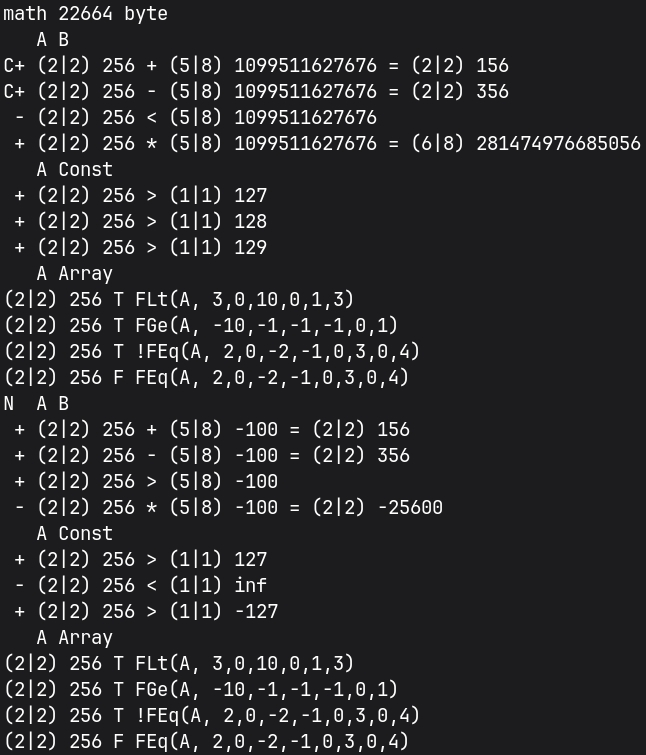
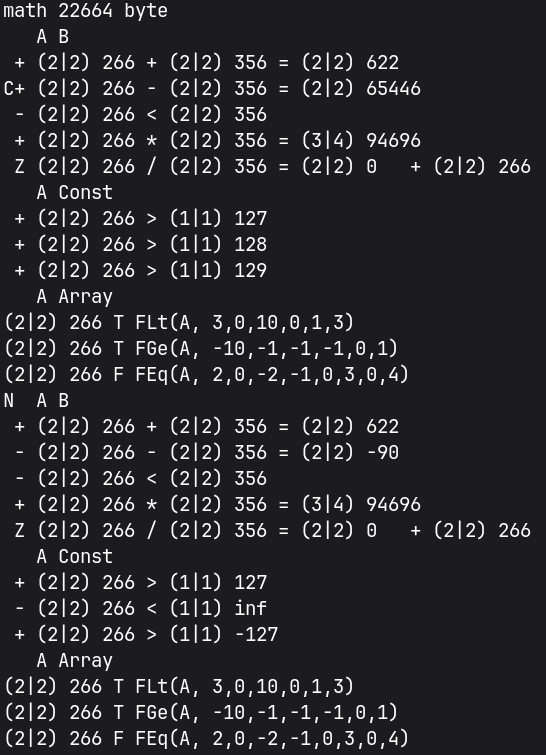
v71.0

Changed region(s): [[0.0, 0.0, 0.9963, 1.0], [0.8095, 0.6702, 0.8718, 0.7311], [0.9341, 0.7007, 0.9652, 0.7311]]

diff --git a/math.c b/math.c
@@ -16,38 +16,38 @@ void FAddr(anu y, As* r, anu c, As* a) { if ((c = (c > y) ? y:c)) { *r++ = *a;
 void FSWAP(an r, anu l, an a) { Mat.i = l; Mat.r = r; Mat.a = a; Mat.be = Mat.r + Mat.i;
   Mat.ae = Mat.a + Mat.i; Mat.j = *Mat.a++; *Mat.r++ = Mat.i ? *Mat.ae--:Mat.j; *Mat.be-- = Mat.j;
   Mat.i >>= 1; while(Mat.i--) { Mat.j = *Mat.a++; *Mat.r++ = *Mat.ae--; *Mat.be-- = Mat.j; } }
-anu FMOV(an r, anu l, an a) { Mat.i = l; Mat.r = r; Mat.a = a;
-  if (Mat.V) { Mat.ae = Mat.a + Mat.i; Mat.z = (Mat.Nim && (*Mat.ae & 128)) ? 255:0; Mat.j = Mat.i;
+anu FMOV(an a, anu l, an b) { Mat.i = l; Mat.a = a; Mat.e = b; Mat.be = Mat.e;
+  if (Mat.V) { Mat.ae = Mat.e + Mat.i; Mat.z = (Mat.Nim && (*Mat.ae & 128)) ? 255:0; Mat.j = Mat.i;
     while((Mat.x = *Mat.ae--) == Mat.z && Mat.i && !((*Mat.ae ^ Mat.z) & 128)) Mat.i--;
     Mat.t = Mat.i; while(Mat.t-- && !*Mat.ae--); if (Mat.i == Mat.j) {
-      if (!++Mat.t && (!Mat.x || Mat.x == 128)) { Mat.a += Mat.i; Mat.i = 0; } }
-    else Mat.i += (!++Mat.t && Mat.x == 128); } Mat.j = Mat.i; Mat.t = Mat.i; if (r < a) {
-    do *Mat.r++ = *Mat.a++; while(Mat.j--); Mat.x = *--Mat.r; } else {
-    Mat.be = (Mat.r += Mat.i); Mat.ae = Mat.a + Mat.i;
-    do *Mat.be-- = *Mat.ae--; while(Mat.j--); Mat.x = *Mat.r; }
-  Mat.z = (Mat.Nim && (Mat.x & 128)) ? 255:0; while(Mat.i && !*--Mat.r) Mat.i--;
+      if (!++Mat.t && (!Mat.x || Mat.x == 128)) { Mat.e += Mat.i; Mat.i = 0; } }
+    else Mat.i += (!++Mat.t && Mat.x == 128); } Mat.j = Mat.i; Mat.t = Mat.i; Mat.ae = Mat.a;
+  if (a < b) { do *Mat.ae++ = *Mat.be++; while(Mat.j--); Mat.x = *--Mat.ae; } else {
+    Mat.ae += Mat.i; Mat.be += Mat.i; do *Mat.ae-- = *Mat.be--; while(Mat.j--);
+    Mat.x = *(Mat.ae = Mat.a + Mat.i); }
+  Mat.z = (Mat.Nim && (Mat.x & 128)) ? 255:0; while(Mat.i && !*--Mat.ae) Mat.i--;
   Mat.u = (Mat.i | Mat.x) ? (Mat.Nim && !Mat.i && Mat.x == 128) ? 2:0:1; return Mat.t; }
-anu FOLD(anu f, an r, anu l, an a) { Mat.y = FMOV(r, l, a); Mat.t = ((Mat.x = Mat.y)) ? 2:1;
-  while((Mat.x >>= 1)) { Mat.t <<= 1; } Mat.r = r; Mat.ae = Mat.r + Mat.y; Mat.x = --Mat.t - Mat.y;
+anu FOLD(anu f, an a, anu l, an b) { Mat.y = FMOV(a, l, b); Mat.t = ((Mat.x = Mat.y)) ? 2:1;
+  while((Mat.x >>= 1)) { Mat.t <<= 1; } Mat.a = a; Mat.ae = Mat.a + Mat.y; Mat.x = --Mat.t - Mat.y;
   Mat.y = Mat.z; if (Mat.u) { Mat.y = *Mat.ae; *Mat.ae = 0; } while(Mat.x--) *++Mat.ae = Mat.z;
-  *Mat.ae = Mat.u ? Mat.y:*Mat.ae; if (f) { Fswap(Mat.t, Mat.r); } return Mat.t; }
-anu FVAR(anu f, an r, anu l, an c) { if (l--) { if (f) { FSWAP(r, l, c); return Fmov(l, r); }
-    else return FMOV(r, l, c); } return Fvle(r, 0); }
+  *Mat.ae = Mat.u ? Mat.y:*Mat.ae; if (f) { Fswap(Mat.t, Mat.a); } return Mat.t; }
+anu FVAR(anu f, an a, anu l, an c) { if (l--) { if (f) { FSWAP(a, l, c); return Fmov(l, a); }
+    else return FMOV(a, l, c); } return Fvle(a, 0); }
 
-void FTST(an a, anu l, an b) { Mat.i = Mat.l; Mat.j = l; Mat.a = a; Mat.b = b;
-  Mat.u = ((*(Mat.ae = Mat.a + Mat.i) & 128) && Mat.Nim) ? 255:0; Mat.lb = Mat.j; Mat.TF = 0;
+void FTST(an a, anu l, an b) { Mat.i = Mat.l; Mat.lb = l; Mat.a = a; Mat.b = b; Mat.TF = 0;
+  Mat.u = ((*(Mat.ae = Mat.a + Mat.i) & 128) && Mat.Nim) ? 255:0; Mat.j = Mat.lb;
   Mat.TN = (Mat.z = ((*(Mat.be = Mat.b + Mat.j) & 128) && Mat.Nim) ? 255:0) != 0;
   while(*Mat.ae-- == Mat.u && Mat.i && !((*Mat.ae ^ Mat.u) & 128)) { Mat.i--; } Mat.ae++;
   while(*Mat.be-- == Mat.z && Mat.j && !((*Mat.be ^ Mat.z) & 128)) { Mat.j--; } Mat.be++;
-  if (Mat.Nim) if ((Mat.l == Mat.i && *Mat.ae == 128) || (Mat.lb == Mat.j && *Mat.be == 128)) {
-      Mat.k = Mat.i; Mat.r = Mat.a; while(Mat.k && !*Mat.r++) { Mat.k--; } Mat.x = Mat.j;
-      Mat.r = Mat.b; while(Mat.x && !*Mat.r++) { Mat.x--; } if (!Mat.k++ && *Mat.ae == 128) {
-        if (!Mat.x && *Mat.be == 128) { Mat.TF++; Mat.TN = 0; Mat.k = 3; } return; }
-      if (!Mat.x && *Mat.be == 128) { Mat.TN = !Mat.u; Mat.k = 2; return; } } Mat.k = 0;
+  if (Mat.Nim) if ((Mat.i == Mat.l && *Mat.ae == 128) || (Mat.j == Mat.lb && *Mat.be == 128)) {
+      Mat.k = Mat.i; while(Mat.k-- && !*Mat.a++) { } Mat.k++; Mat.a = Mat.b;
+      Mat.x = Mat.j; while(Mat.x-- && !*Mat.a++) { } if (!Mat.k++ && *Mat.ae == 128) {
+        if (!++Mat.x && *Mat.be == 128) { Mat.TF++; Mat.TN = 0; Mat.k = 3; } return; }
+      if (!++Mat.x && *Mat.be == 128) { Mat.TN = !Mat.u; Mat.k = 2; return; } } Mat.k = 0;
   if (!(Mat.u ^ Mat.z) && Mat.i == Mat.j) { while((*Mat.ae-- == *Mat.be--) && Mat.i--) { }
-    if (!++Mat.i) { Mat.ae++; Mat.be++; Mat.TF++; Mat.TN = 0; }
-    else { Mat.TN = *++Mat.be >= *++Mat.ae; } Mat.i = Mat.j; return; }
-  if (Mat.u ^ Mat.z) { Mat.TN = !Mat.z; return; } Mat.TN = Mat.u ? (Mat.j < Mat.i):(Mat.i < Mat.j); }
+    if (!++Mat.i) { Mat.TF++; Mat.TN = 0; } else { Mat.TN = *++Mat.be >= *++Mat.ae; }
+    Mat.i = Mat.j; return; }
+  if (Mat.u ^ Mat.z) Mat.TN = !Mat.z; else Mat.TN = Mat.u ? (Mat.j < Mat.i):(Mat.i < Mat.j); }
 
 void FADD(an r, an a, anu l, an b) { Mat.N = l; Mat.r = r; Mat.a = a; Mat.b = b; Mat.lb = Mat.N;
   Mat.ae = Mat.a + Mat.l; Mat.u = (((Mat.x = *Mat.ae--) & 128) && Mat.Nim) ? 255:0; Mat.F = Mat.l;
@@ -144,26 +144,29 @@ void FMUL(an r, an a, anu l, an b) { Mat.N = l; Mat.r = r; Mat.a = a; Mat.b = b;
   Mat.F = (Mat.C = (!Mat.Nim && Mat.t == 2)) ? 1:Mat.t; Mat.N = 0; Mat.N -= (Mat.F == 2);
   Mat.l = Mat.V ? 0:Mat.l; Mat.i = Mat.l; while(Mat.i--) *Mat.r++ = 0; *Mat.r = Mat.N & 128; }
 
-void FDIV(an r, an e, an a, anu l, an b) { FTST(a, l, b); Mat.r = r; Mat.e = e;
-  if ((Mat.t = (!(Mat.i | *Mat.ae)) | ((!(Mat.j | *Mat.be)) << 1)) | Mat.k) { }
+void FDIV(an r, an e, an a, anu l, an b) { Mat.r = r; Mat.e = e; FTST(a, l, b); Mat.le = Mat.lb;
+  if (Mat.k) { return; }
   if (Mat.TF) { *Mat.r = 1; *Mat.e = 0; Mat.F = 0; Mat.N = 0; Mat.Fe = 1; Mat.Ne = 0;
-    if (Mat.V) { Mat.l = 0; Mat.le = 0; return; } Mat.le = Mat.lb; Mat.i = Mat.l;
-    while(Mat.i--) { *++Mat.r = 0; } Mat.i = Mat.le; while(Mat.i--) { *++Mat.e = 0; } return; }
+    if (Mat.V) { Mat.l = 0; Mat.le = 0; return; } Mat.i = Mat.l;
+    while(Mat.i--) { *++Mat.r = 0; } Mat.i = Mat.le; while(Mat.i--) *++Mat.e = 0; }
+  else if (Mat.TN) { *Mat.r = 0; Mat.F = 1; Mat.N = 0; Mat.le = FMOV(Mat.e, Mat.l, a);
+      Mat.Fe = Mat.u; Mat.Ne = Mat.z; if (Mat.V) { Mat.l = 0; return; } Mat.i = Mat.l;
+      while(Mat.i--) { *++Mat.r = 0; } }
   }
 
   void FCTST(an a, anu l, an c) { if (l--) return FTST(a, l, c); return FTST(a, Mat.lb, Mat.b); }
-  anu FCGE(an a, anu l, an c) { if (l--) { Mat.e = c; do { Mat.y = (Mat.l > l) ? l:Mat.l;
-        FTST(a, Mat.y, Mat.e); Mat.e += 1 + Mat.y; l -= Mat.y; Mat.t = !Mat.TN; if (!l--) break;
-        Mat.y = (Mat.l > l) ? l:Mat.l; FTST(a, Mat.y, Mat.e); Mat.e += 1 + Mat.y; l -= Mat.y;
+  anu FCGE(an a, anu l, an c) { if (l--) { Mat.r = c; do { Mat.y = (Mat.l > l) ? l:Mat.l;
+        FTST(a, Mat.y, Mat.r); Mat.r += 1 + Mat.y; l -= Mat.y; Mat.t = !Mat.TN; if (!l--) break;
+        Mat.y = (Mat.l > l) ? l:Mat.l; FTST(a, Mat.y, Mat.r); Mat.r += 1 + Mat.y; l -= Mat.y;
         Mat.t = Mat.t && (Mat.TN | Mat.TF); } while(l-- && !Mat.t); return Mat.t; }
     FTST(a, Mat.lb, Mat.b); return !Mat.TN; }
-  anu FCLT(an a, anu l, an c) { if (l--) { Mat.e = c; Mat.t = 1; do { Mat.y = (Mat.l > l) ? l:Mat.l;
-        FTST(a, Mat.y, Mat.e); Mat.e += 1 + Mat.y; l -= Mat.y; Mat.t = Mat.t && Mat.TN; if (!l--) break;
-        Mat.y = (Mat.l > l) ? l:Mat.l; FTST(a, Mat.y, Mat.e); Mat.e += 1 + Mat.y; l -= Mat.y;
+  anu FCLT(an a, anu l, an c) { if (l--) { Mat.r = c; Mat.t = 1; do { Mat.y = (Mat.l > l) ? l:Mat.l;
+        FTST(a, Mat.y, Mat.r); Mat.r += 1 + Mat.y; l -= Mat.y; Mat.t = Mat.t && Mat.TN; if (!l--) break;
+        Mat.y = (Mat.l > l) ? l:Mat.l; FTST(a, Mat.y, Mat.r); Mat.r += 1 + Mat.y; l -= Mat.y;
         Mat.t = Mat.t || !(Mat.TN | Mat.TF); } while(l--); return Mat.t; }
     FTST(a, Mat.lb, Mat.b); return Mat.TN; }
-  anu FCEQ(an a, anu l, an c) { if (l--) { Mat.e = c; do { Mat.y = (Mat.l > l) ? l:Mat.l;
-        FTST(a, Mat.y, Mat.e); Mat.e += 1 + Mat.y; l -= Mat.y; } while(l-- && !Mat.TF); return Mat.TF; }
+  anu FCEQ(an a, anu l, an c) { if (l--) { Mat.r = c; do { Mat.y = (Mat.l > l) ? l:Mat.l;
+        FTST(a, Mat.y, Mat.r); Mat.r += 1 + Mat.y; l -= Mat.y; } while(l-- && !Mat.TF); return Mat.TF; }
     FTST(a, Mat.lb, Mat.b); return Mat.TF; }
 
 void FCADD(an r, an a, anu l, an c) { if (l--) return FADD(r, a, l, c); return FADD(r, a, Mat.lb, Mat.b); }

diff --git a/main.c b/main.c
@@ -15,7 +15,7 @@
 #define m      128  // максимальное число атомов в числах
 
 anu la,lb;
-void Num(anu s, an a) { anu ns,t[m]; if (s > 8) printf(" %d|? ", s + 1);
+void Num(anu s, an a) { anu ns,t[m]; if (s > 7) printf(" %d|? ", s + 1);
   else { printf("(%d|%d) ", s + 1, (ns = FOLD(Obe, (an)t, s, a)) + 1); a = (an)t;
     if (Mat.u == 2) printf("inf "); else {
       if (Mat.Nim) { if (ns > 3) printf("%ld " , *(int64_t*)a); else if (ns > 1) printf("%d ", *(int32_t*)a);
@@ -23,18 +23,17 @@ void Num(anu s, an a) { anu ns,t[m]; if (s > 8) printf(" %d|? ", s + 1);
       else { if (ns > 3) printf("%lu ", *(uint64_t*)a); else if (ns > 1) printf("%u ", *(uint32_t*)a);
         else if (ns) printf("%u ", *(uint16_t*)a); else printf("%u ", *(uint8_t*)a); } } } }
 void Show(char s) { Flong(Mat.lb,la); Mat.C = 0; if (s == '+') FAdd(Mat.R, Mat.A); else if (s == '-') FSub(Mat.R, Mat.A);
-  else if (s == '*') FMul(Mat.R, Mat.A); else if (s == '/') FDiv(Mat.R, Mat.A, Mat.E); else if (s == '?') Ftst(Mat.A);
+  else if (s == '*') FMul(Mat.R, Mat.A); else if (s == '/') FDiv(Mat.R, Mat.E, Mat.A); else if (s == '?') Ftst(Mat.A);
   else { Ftst(Mat.A, 127); } if (s == '?' || s == 'c') printf(" %c ", Mat.TF ? 'Z':Mat.TN ? '-':'+');
   else { printf("%c%c ", Mat.C ? 'C':' ', Mat.F ? Mat.N ? 'I':'Z':Mat.N ? '-':'+'); } Num(la, Mat.A);
   if (s == '?' || s == 'c') printf("%c ", Mat.TF ? '=':Mat.TN ? '<':'>'); else {
     if (s == 'c') printf("? "); else printf("%c ", s); } Num(Mat.lb, Mat.b); if (s < '?') { printf("= "); Num(Mat.l, Mat.R); }
   if (s == '/') { printf("  %c ", Mat.Fe ? (Mat.Ne ? 'I':'Z') : (Mat.Ne ? '-':'+')); Num(Mat.le, Mat.E); } printf("\n"); }
 void Test(void) { Faddr((As)Mat.B); Flong(lb,la); anu t,i = 2; printf("%c%c A B\n", Mat.Nim ? 'N':' ', Mat.V ? 'V':' '); Show('+');
-  Show('-'); Show('?'); Show('*'); /*Show('/');*/ printf("   A Const\n"); Show('c'); while(i--) { t = *Mat.b; *Mat.b = ++t; Show('?'); }
+  Show('-'); Show('?'); Show('*'); Show('/'); printf("   A Const\n"); Show('c'); while(i--) { t = *Mat.b; *Mat.b = ++t; Show('?'); }
   printf("   A Array\n"); Num(la, Mat.A); printf("%c FLt(A, 3,0,10,0,1,3)\n", FLt(Mat.A, 3,0,10,0,1,3) ? 'T':'F');
   Num(la, Mat.A); printf("%c FGe(A, -10,-1,-1,-1,0,1)\n", FGe(Mat.A, -10,-1,-1,-1,0,1) ? 'T':'F');
-  Num(la, Mat.A); printf("%c !FEq(A, 2,0,-2,-1,0,3,0,4)\n", !FEq(Mat.A, 2,0,-2,-1,0,3,0,4) ? 'T':'F');
   Num(la, Mat.A); printf("%c FEq(A, 2,0,-2,-1,0,3,0,4)\n", FEq(Mat.A, 2,0,-2,-1,0,3,0,4) ? 'T':'F'); }
 
-int main(void) { anu a[m],b[m],e[m],r[m+m]; Faddr((As)b, (As)a, (As)r, (As)e); Fini(NoSign,MatV); la = Fvbe(Mat.A, 1,0);
-  lb = Fvle(Mat.B, -100,255,255,255,255); Test(); Fset(Sign,MatV); la = Fmov(la, Mat.A); lb = Fmov(lb, Mat.B); Test(); return 0; }
+int main(void) { anu a[m],b[m],e[m],r[m+m]; Faddr((As)b, (As)a, (As)r, (As)e); Fini(NoSign,MatV); la = Fvbe(Mat.A, 1,10);
+  lb = Fvle(Mat.B, 100,1); Test(); Fset(Sign,MatV); la = Fmov(la, Mat.A); lb = Fmov(lb, Mat.B); Test(); return 0; }

diff --git a/math.h b/math.h
@@ -43,13 +43,13 @@ void FAddr(anu y, As* r, anu c, As* a);                 // Faddr({(As)b{,(As)a{,
 #define Fini(...) FInit(12,4,&Mat.i,Anu(__VA_ARGS__))   // Nim=V=lb=l..Ne=0 Fini({Nim{,V{,lb{,la}}}});
 #define Flong(...) FInit(0,3,&Mat.lb,Anu(__VA_ARGS__))  // Flong({lb{,la{,le}}});
 
-void FSWAP(an r, anu l, an a);                  // Зеркалирование атомов длиной l относительно центра числа
-anu FMOV(an r, anu l, an a);                    // Копирование l атомов |8,16,32,64|128,256,512,1024,2048 бит
-anu FOLD(anu f, an r, anu l, an a);             // Приведение к формату l = 0,1,3,7|15,31,63,127,255 атомов
-anu FVAR(anu f, an r, anu l, an c);             // Копирование из константы в переменную l -> lnew
+void FSWAP(an r, anu l, an b);                  // Зеркалирование атомов длиной l относительно центра числа
+anu FMOV(an a, anu l, an b);                    // Копирование a[l] = b[l]  8,16,32,64|128,256,512,1024,2048 бит
+anu FOLD(anu f, an a, anu l, an b);             // Приведение к формату lnew = 0,1,3,7|15,31,63,127,255 атомов
+anu FVAR(anu f, an a, anu l, an c);             // Копирование из константы в переменную lnew = l     | a = 0
 #define Fswap(l, x) FSWAP(x, l, x)                      // Fswap(l, x); Fswap(l, x); -> {}
-#define Fmov(l, x) FMOV(x, l, x)                        // l -> lnew      Mat.u ? Mat.u:Mat.z ? -:+
-#define Fold(f, l, x) FOLD(f, x, l, x)                  // l -> lnew >= l Mat.u ? Mat.u:Mat.z ? -:+
+#define Fmov(l, x) FMOV(x, l, x)                        // lnew = l                      | Mat.u ? 0:Mat.z ? -:+
+#define Fold(f, l, x) FOLD(f, x, l, x)                  // lnew >= l                     | Mat.u ? 0:Mat.z ? -:+
 #define FVar(f, r, ...) FVAR(f, r, Anu(__VA_ARGS__))    // r = Num{LittleEnd/BigEnd}     | r = 0
 #define Fvle(r, ...) FVar(0, r, __VA_ARGS__)            // r = Num{LittleEndian}         | r = 0
 #define Fvbe(r, ...) FVar(1, r, __VA_ARGS__)            // r = Num{BigEndian}            | r = 0

diff --git a/README.md b/README.md
@@ -27,7 +27,7 @@
 P.s.: Блокировку убрали как только добавил сообщение о ней на главную страницу, длилась минут 20, как я заметил, и принял меры, чтобы сообщить об этом Вам. Это сообщение останется (20.09.2026 ~16.00 +7 UTF) как память, так что буду стараться вопреки невостребованности в России по данной области дабы остальной народ мог этим воспользоваться. Проанализируйте события с момента, как я вернулся в эту сферу (конец января 2026 выложен Products, готовый полностью, затем занялся Fresh в начале февраля 2026), всё это время обновлялся код и было забавно видеть на open.net новости - даже компании серьёзные - их как озарило - так что у меня нет желания и времени следить за соблюдением GPLv3 из России, если заметите нарушение лицензии, то гарантируется взаимовыгодное сотрудничество.
 
 <div align="center">
-  <h1>Результат запуска v70.7</h1>
+  <h1>Результат запуска v71.0</h1>
   
   <picture>
     <source media="(prefers-color-scheme: dark)" srcset="Plus/psb.jpeg">
